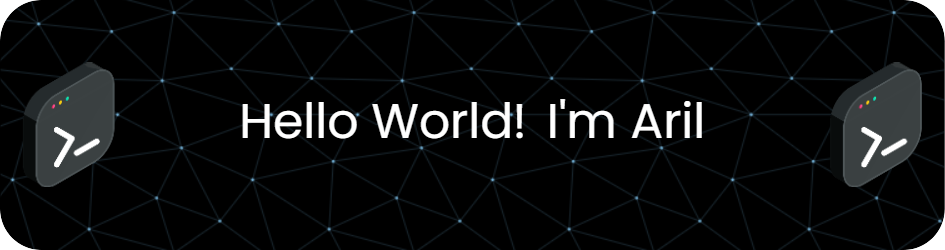
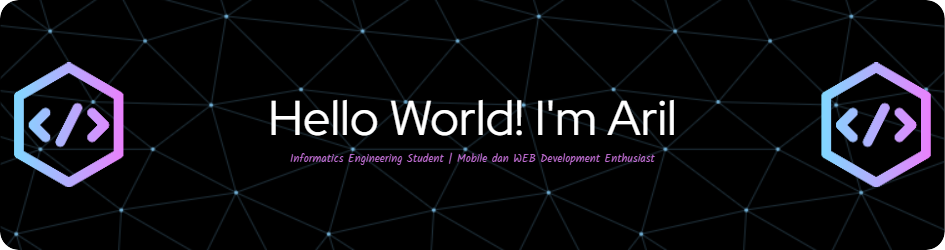
update tampilan

diff --git a/README.md b/README.md
@@ -1,6 +1,7 @@
 ### Hello World! I'm Aril 👋
+Informatics Engineering Student at Tadulako University | Mobile and Web Development Enthusiast <br/>
 ![aril](img/github-header-image.png)
-Informatics Engineering Student at Tadulako University | Mobile dan WEB Development Enthusiast
+
 
 
 
